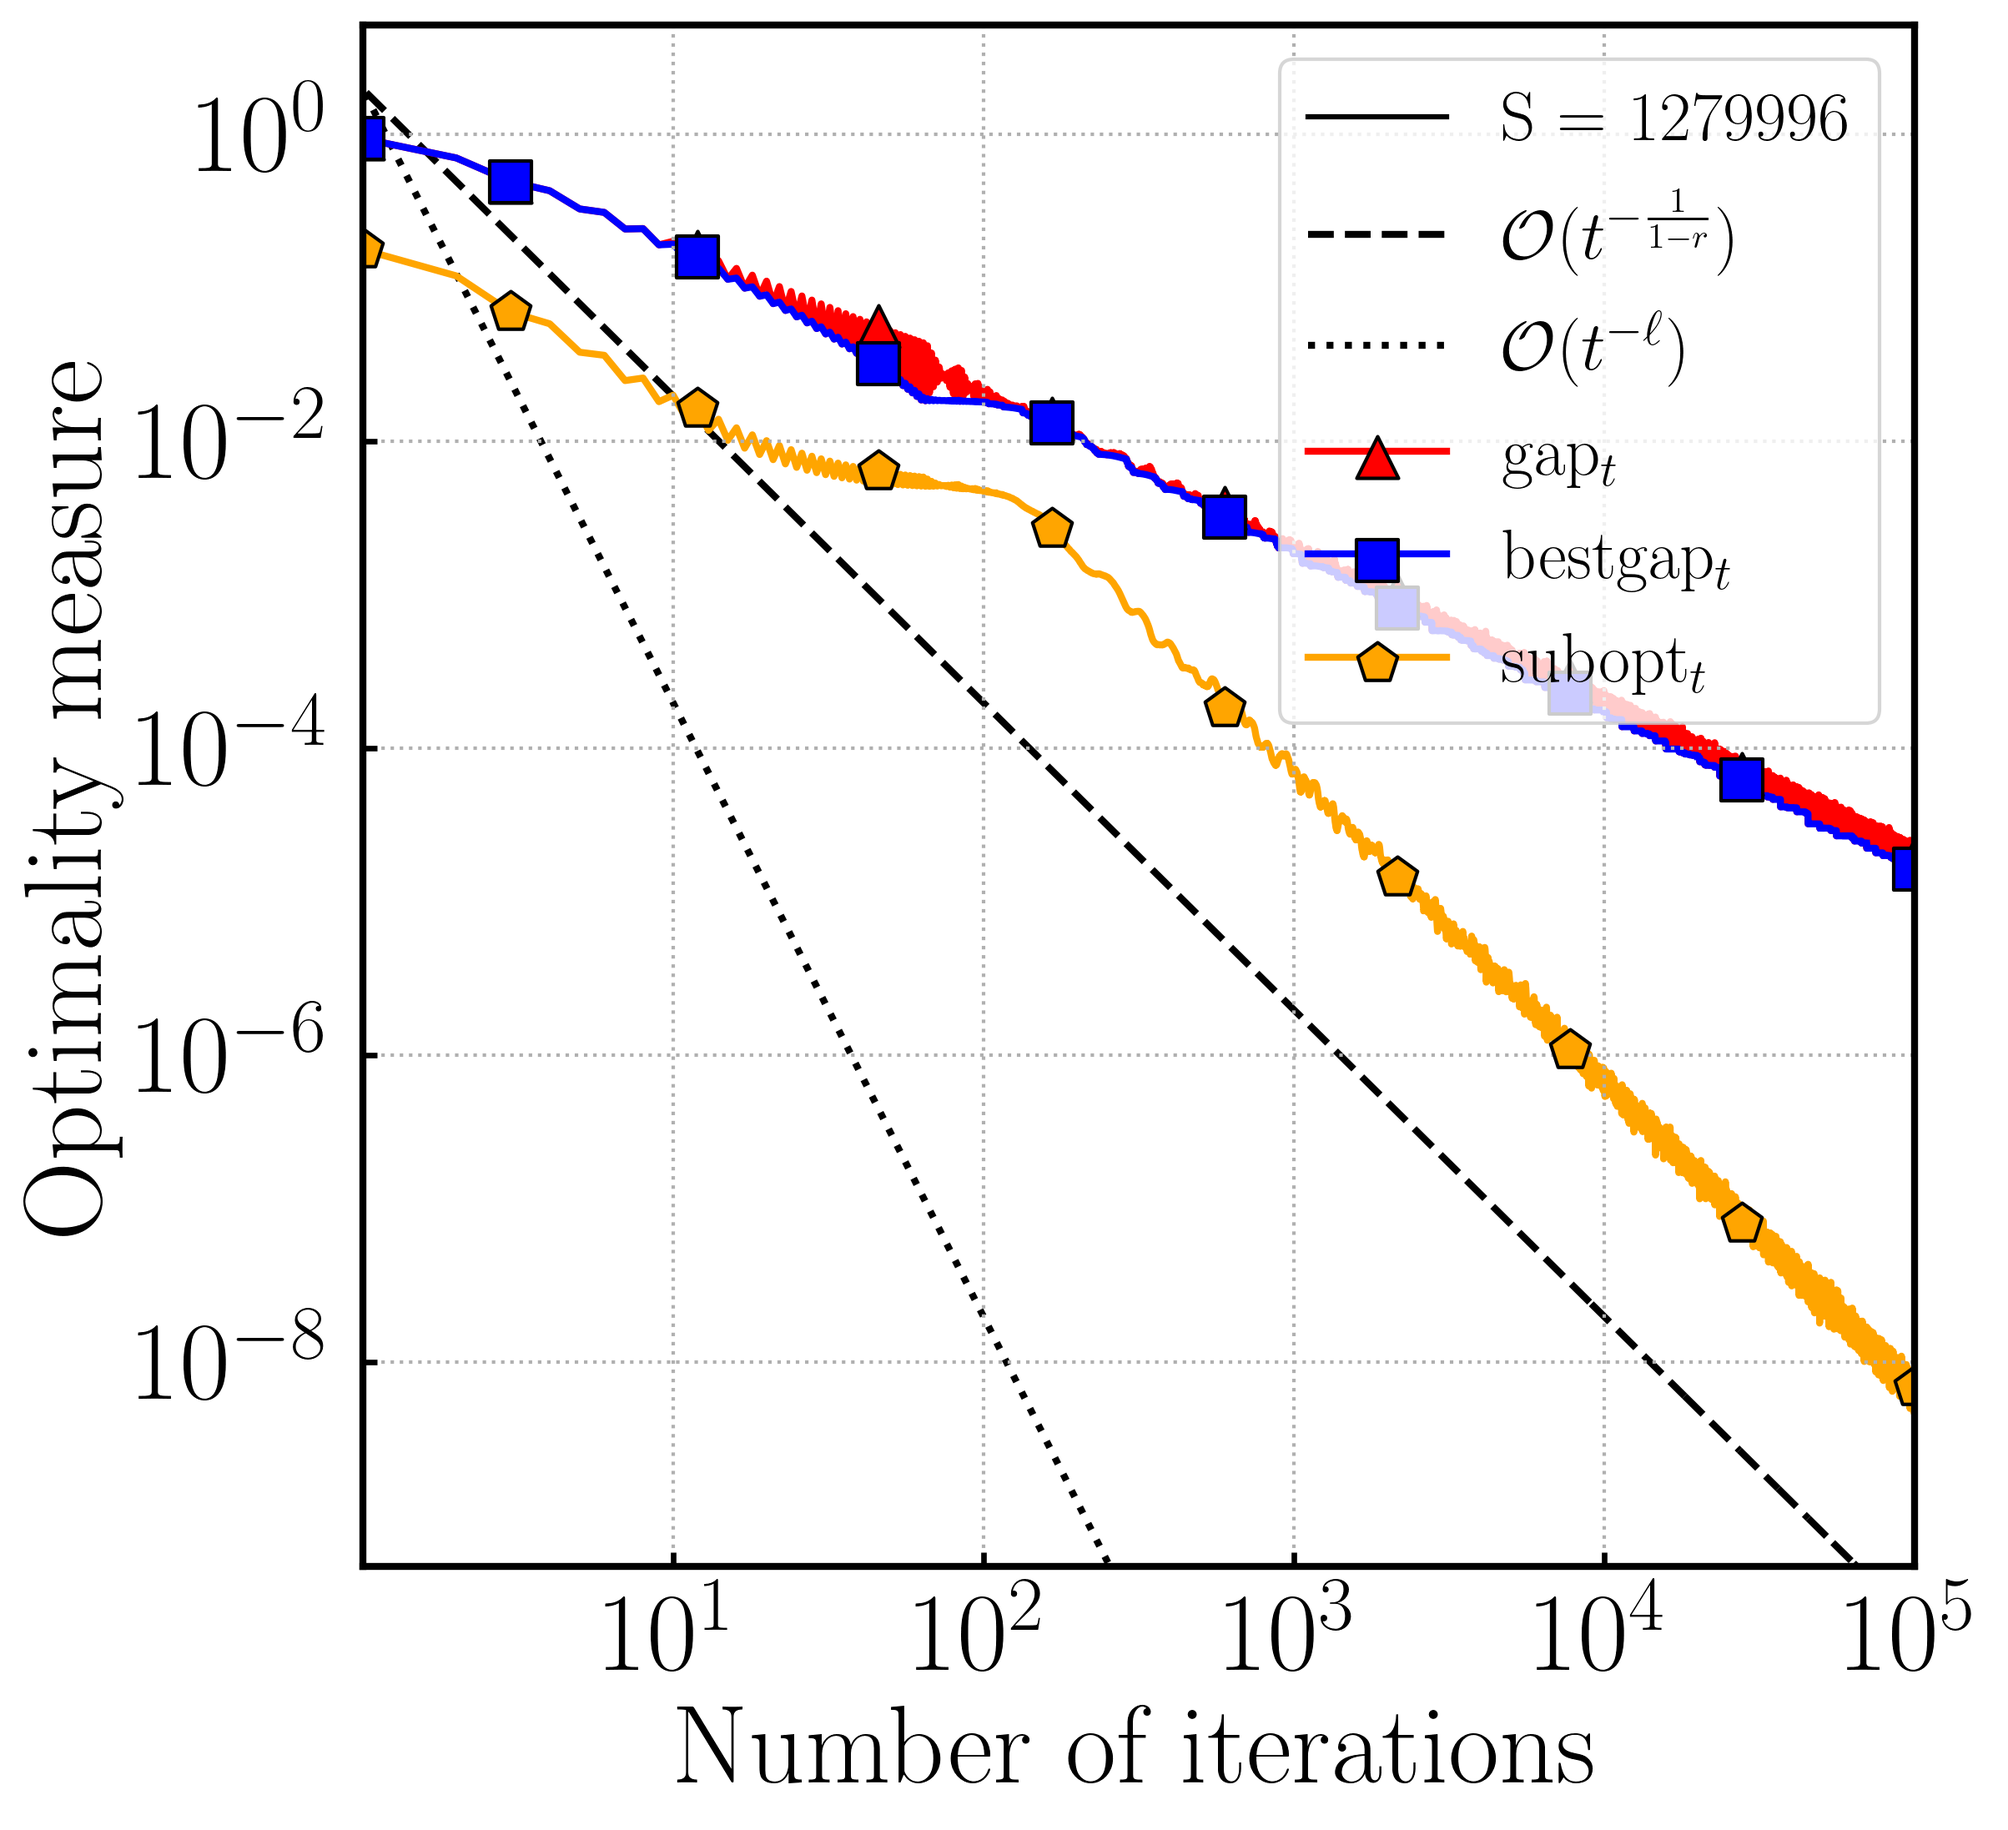
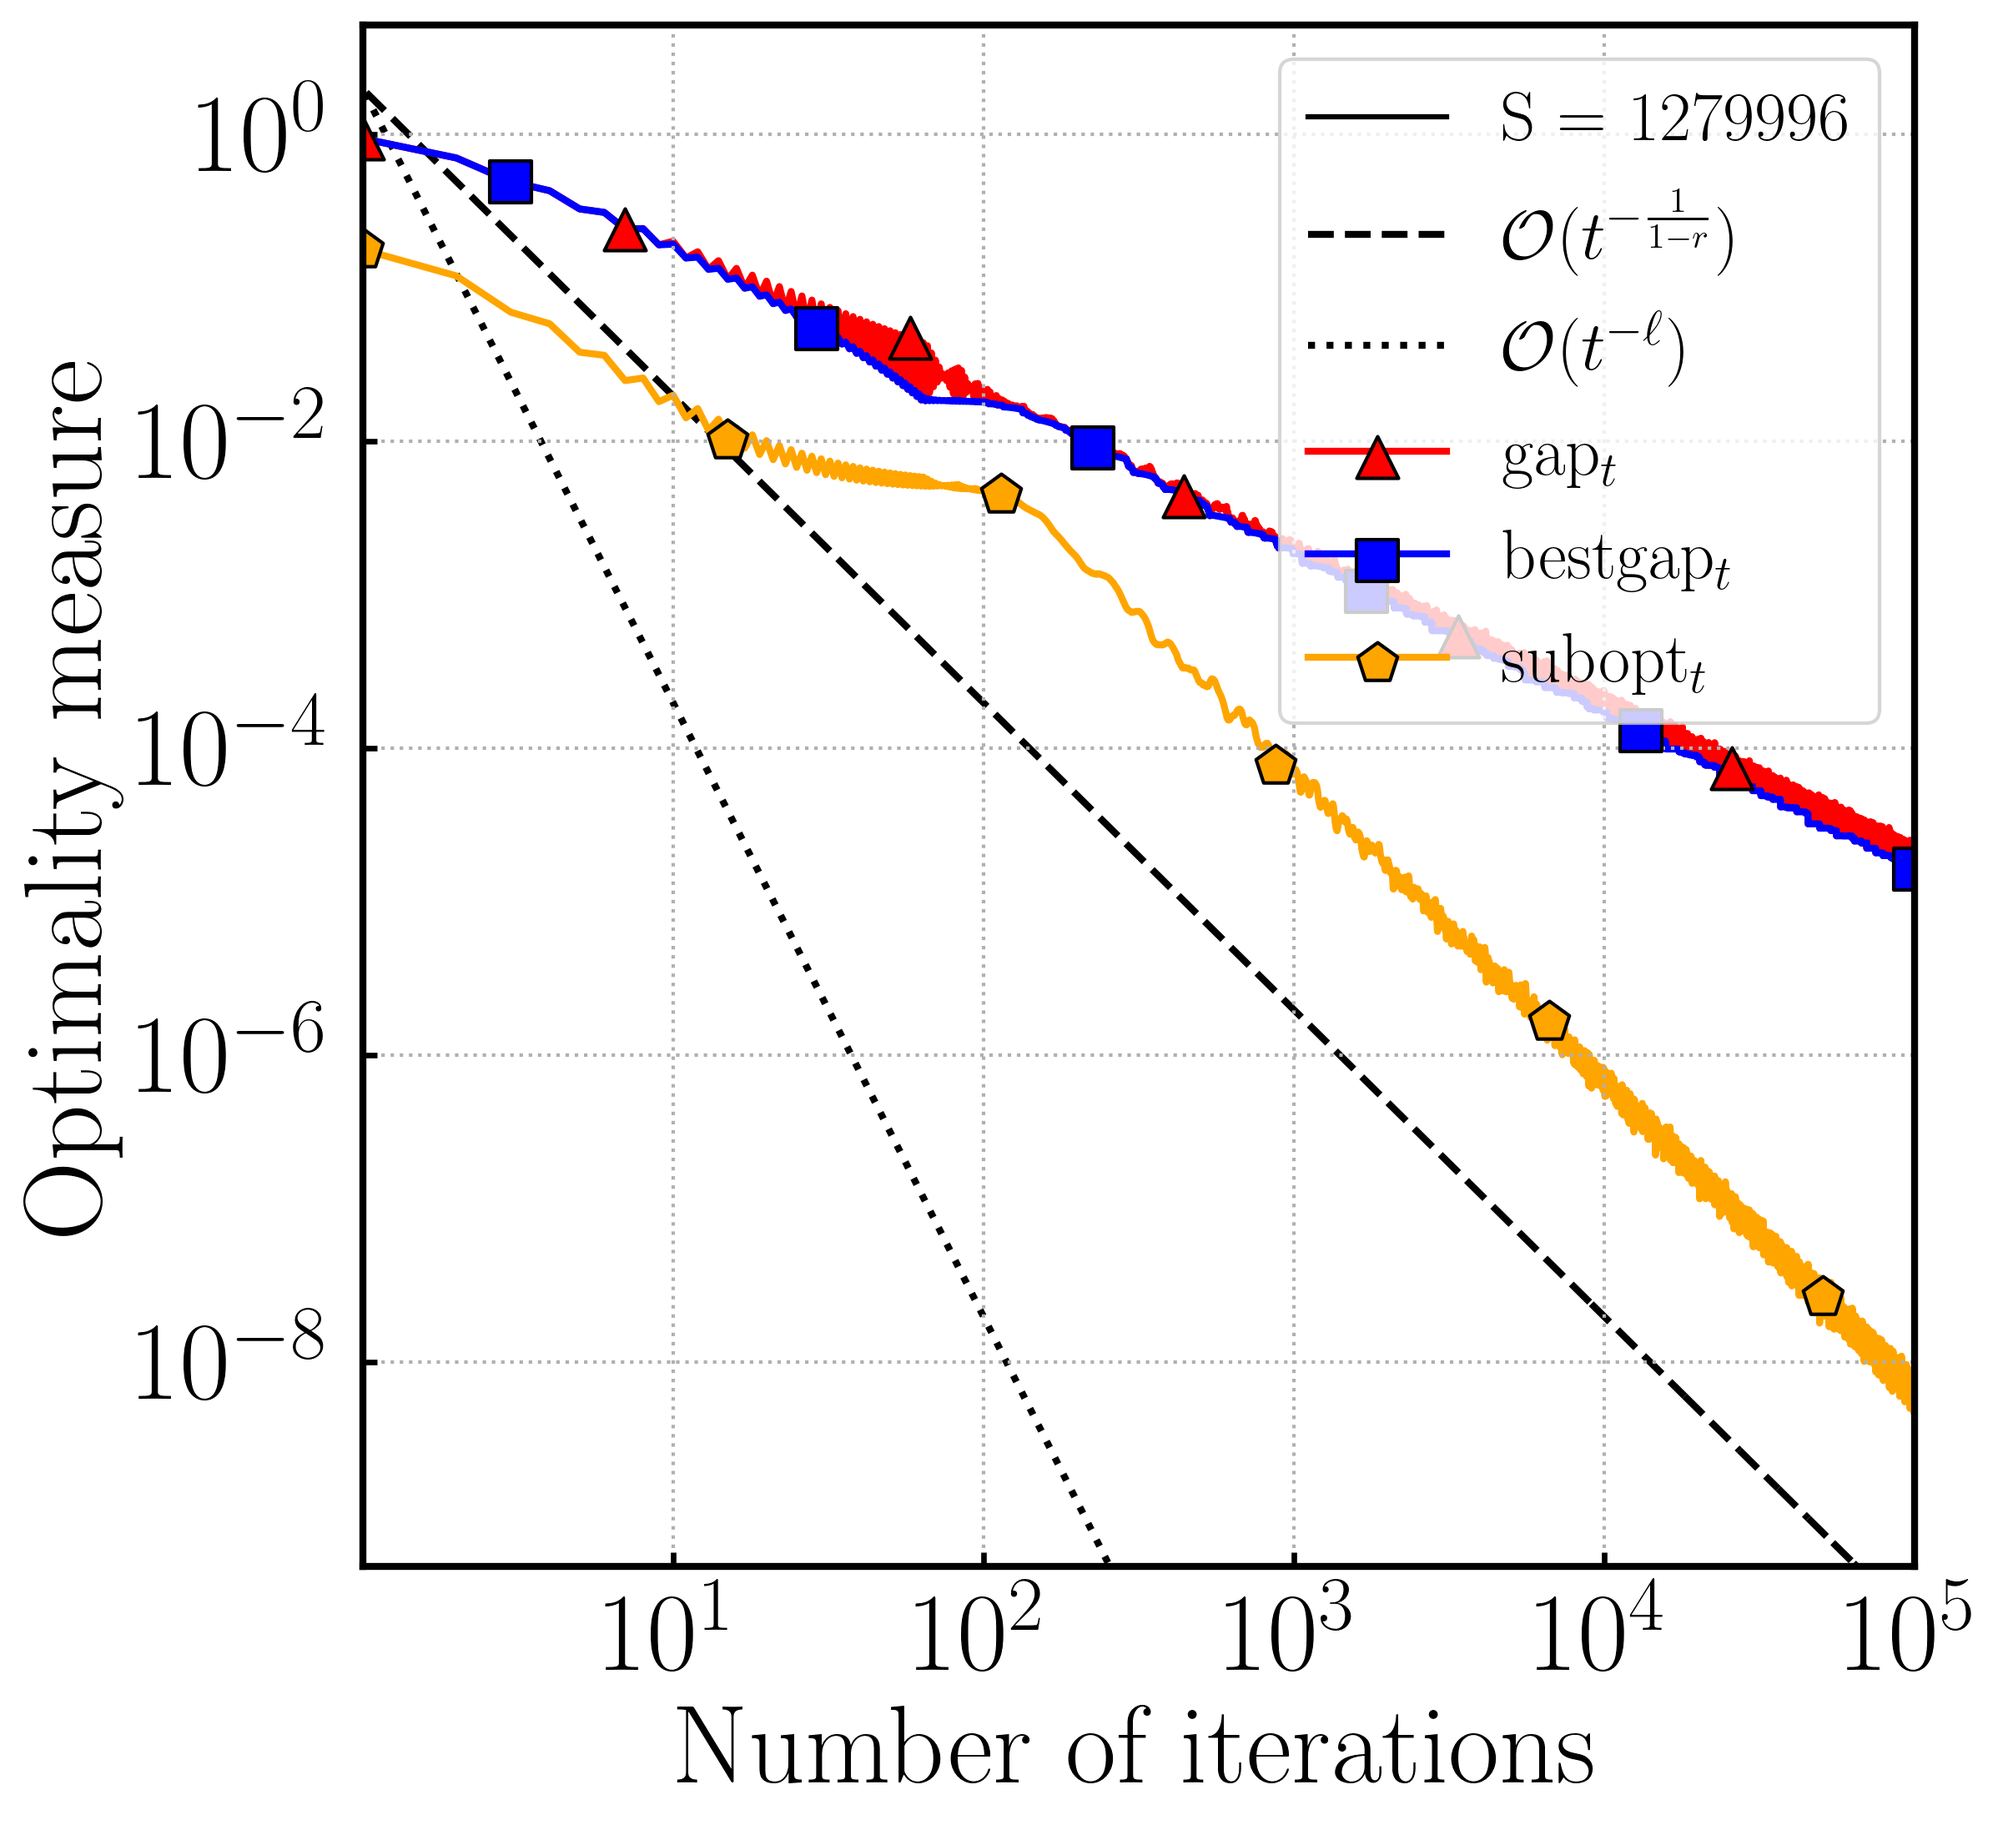
changes based on Sebastian's comments

diff --git a/src/plotting.py b/src/plotting.py
@@ -3,9 +3,8 @@ import autograd.numpy as np
 from pathlib import Path
 import matplotlib.lines as mlines
 
-from matplotlib.lines import Line2D
-
 from global_ import *
+from src.auxiliary_functions import create_sublist
 
 
 def determine_y_lims(data, minimum=1e-10):
@@ -120,12 +119,17 @@ def gap_plotter(y_data: list,
     plt.rcParams['text.usetex'] = True
 
     legend_handles = []  # Create a list to store the legend handles
+    n_sublists = len(set(markers[:len(labels)])) - 1
+    marker_indices_all = list(np.logspace(0, np.log10(len(y_data[-1]) - 1), num=((n_sublists)*n_markers), base=10,
+                                          dtype=int))
 
     for i in range(0, len(y_data)):
         # Plot the line with marker
         line = plt.plot(y_data[i], linestyle=styles[i], color=colors[i], label=labels[i], linewidth=linewidth, zorder=1)
 
-        marker_indices = list(np.logspace(0, np.log10(len(y_data[i]) - 1), num=n_markers, base=10, dtype=int))
+        # marker_indices = list(np.logspace(0, np.log10(len(y_data[i]) - 1), num=n_markers, base=10, dtype=int))
+        marker_indices = create_sublist(marker_indices_all, n_sublists, i+1)
+        # marker_indices = [idx for idx in marker_indices if idx <= len(y_data[0]) - 1]
         marker_values = [y_data[i][idx] for idx in marker_indices]
         scatter = plt.scatter(marker_indices, marker_values, marker=markers[i], color=colors[i], s=marker_size ** 2,
                               label=labels[i], edgecolor="black", linewidth=1, zorder=2)

diff --git a/experiments/regression.py b/experiments/regression.py
@@ -64,8 +64,8 @@ for p in ps:
         all_best_gaps.append(best_gaps[0][1:ITERATIONS])
 
     gap_0 = max([max(i) for i in all_dual_gaps])
-    all_primal_gaps, labels, styles, colors, markers = create_reference_lines_automatically(all_primal_gaps,
-                                                                                            labels, 1, l, gap_0)
+    all_primal_gaps, labels, styles, colors, markers = create_reference_lines_automatically(
+        all_primal_gaps, labels, 1, l, gap_0, colors=COLORS_ALTERNATIVE)
     all_dual_gaps, _, _, _, _ = create_reference_lines_automatically(all_dual_gaps, labels, 1, l, gap_0)
     all_best_gaps, _, _, _, _ = create_reference_lines_automatically(all_best_gaps, labels, 1, l, gap_0)
     file_name = ("regression" + "_p=" + str(round(p, 2)) + "_l=" + str(l))
@@ -104,12 +104,12 @@ for p in ps:
                 markers=markers
                 )
 
-    y_label = "bestgap"
-    y_label = "bestgap" + r"$_t$"
+    y_label = "primaldual"
+    y_label = "primaldual" + r"$_t$"
     gap_plotter(y_data=all_best_gaps,
                 labels=labels,
                 iterations=ITERATIONS,
-                file_name=("bestgap_" + file_name),
+                file_name=("primaldual_" + file_name),
                 x_lim=(1, ITERATIONS),
                 y_lim=determine_y_lims(primal_gaps),
                 y_label=y_label,

diff --git a/experiments/strong_growth.py b/experiments/strong_growth.py
@@ -21,14 +21,14 @@ for lmbda in lmbdas:
         q = 1 / (1 - 1 / p)
         assert p >= 1, "Only consider lp-balls with p>= 1."
         if p < 2:
-            alpha = (p - 1) / 2
+            alpha = (p - 1) / 4
             r = 1.
             y = np.random.random((DIMENSION, 1))
             y = (lmbda + 1) * y / lpnorm(y, q)
             L = 1.
             M = L * (alpha * lmbda) ** (-1)
         elif p >= 2:
-            alpha = 1 / p
+            alpha = 1 / (p*2**(p-1))
             r = 2 / p
             y = np.random.random((DIMENSION, 1))
             y = (lmbda + DIMENSION ** (1 / q - 1 / p)) * y / lpnorm(y, q)
@@ -48,7 +48,7 @@ for lmbda in lmbdas:
                                                               run_more=RUN_MORE, fw_step_size_rules=fw_step_size_rules)
 
         gaps = [dual_gaps[0][1:ITERATIONS], best_gaps[0][1:ITERATIONS], primal_gaps[0][1:ITERATIONS]]
-        labels = ["gap" + r'$_t$', "bestgap" + r'$_t$', "subopt" + r'$_t$']
+        labels = ["gap" + r'$_t$', "primaldual" + r'$_t$', "subopt" + r'$_t$']
         gap_0 = dual_gaps[0][0]
         gaps, labels, styles, colors, markers = create_reference_lines_automatically(gaps, labels, r, l, gap_0)
         file_name = ("strong_growth" + "_r=" + str(round(r, 2)) + "_M=" + str(round(M, 2)) + "_p=" + str(round(p, 2)) +

diff --git a/experiments/weak_boundary_growth.py b/experiments/weak_boundary_growth.py
@@ -20,7 +20,7 @@ for y_norm in [1.0]:
         q = 1 / (1 - 1 / p)
         assert p >= 1, "Only consider lp-balls with p>= 1."
         if p < 2:
-            alpha = (p - 1) / 2
+            alpha = (p - 1) / 4
             r = 1.
             y = np.random.random((DIMENSION, 1))
             y = y / lpnorm(y, p)
@@ -29,7 +29,7 @@ for y_norm in [1.0]:
             theta = 1 / 2
             M = L * (mu / alpha)
         elif p >= 2:
-            alpha = 1 / p
+            alpha = 1 / (p*2**(p-1))
             r = 2 / p
             y = np.random.random((DIMENSION, 1))
             y = DIMENSION ** (1 / q - 1 / p) * y / lpnorm(y, p)
@@ -52,7 +52,7 @@ for y_norm in [1.0]:
                                                               fw_step_size_rules=fw_step_size_rules)
 
         gaps = [dual_gaps[0][1:ITERATIONS], best_gaps[0][1:ITERATIONS], primal_gaps[0][1:ITERATIONS]]
-        labels = ["gap" + r'$_t$', "bestgap" + r'$_t$', "subopt" + r'$_t$']
+        labels = ["gap" + r'$_t$', "primaldual" + r'$_t$', "subopt" + r'$_t$']
         gap_0 = dual_gaps[0][0]
         gaps, labels, styles, colors, markers = create_reference_lines_automatically(gaps, labels, r, l, gap_0)
         file_name = (("weak_boundary_growth" + "_r=" + str(round(r, 2)) + "_M=" + str(round(M, 2)) + "_p=" + str(

diff --git a/src/auxiliary_functions.py b/src/auxiliary_functions.py
@@ -22,3 +22,36 @@ def fd(matrix, option="column"):
 
 def get_non_zero_indices(x: np.ndarray):
     return np.where(x.flatten())[0].tolist()
+
+
+def create_sublist(input_list, k, i):
+    """
+    Creates a sublist from a given list based on a specific condition.
+
+    Args:
+        input_list (list): The input list to be split into a sublist.
+        k (int): The total number of sublists that could be created.
+        i (int): The index of the sublist to be created (0 <= i < k).
+
+    Returns:
+        list: A sublist containing elements that satisfy the condition 'i + r' is divisible by 'k',
+              where 'i' is the element index and 'r' is a non-negative integer.
+
+    Example:
+        >>> original_list = [1, 2, 3, 4, 5, 6, 7, 8, 9, 10]
+        >>> k = 3
+        >>> i = 1
+        >>> sublist = create_sublist(original_list, k, i)
+        >>> print(sublist)
+        [2, 5, 8]
+
+        In this example, the input list is split into 3 possible sublists, and the function returns
+        the sublist where 'i + r' is divisible by 'k' (in this case, 'i' is 1).
+    """
+    sublist = []
+
+    for j, item in enumerate(input_list):
+        if (j + i) % k == 0:
+            sublist.append(item)
+
+    return sublist

diff --git a/experiments/polytope.py b/experiments/polytope.py
@@ -1,6 +1,6 @@
 import random
 import autograd.numpy as np
-from src.feasible_region import lpnorm, ProbabilitySimplex, LpBall
+from src.feasible_region import lpnorm, LpBall
 from src.objective_function import SquaredLoss
 from src.plotting import gap_plotter, determine_y_lims
 from src.experiments_auxiliary_functions import run_experiment, create_reference_lines_automatically
@@ -55,7 +55,7 @@ for kappa in kappas:
                                                               fw_step_size_rules=fw_step_size_rules)
 
         gaps = [dual_gaps[0][1:ITERATIONS], best_gaps[0][1:ITERATIONS], primal_gaps[0][1:ITERATIONS]]
-        labels = ["gap" + r'$_t$', "bestgap" + r'$_t$', "subopt" + r'$_t$']
+        labels = ["gap" + r'$_t$', "primaldual" + r'$_t$', "subopt" + r'$_t$']
         gap_0 = dual_gaps[0][0]
         gaps, labels, styles, colors, markers = create_reference_lines_automatically(gaps, labels, 1, l, gap_0)
         file_name = ("polytope_growth" + "_l1_ball" + "_rho=" + str(rho) + "_kappa=" + str(kappa) + "_l=" + str(l))

diff --git a/global_.py b/global_.py
@@ -1,10 +1,13 @@
 
 # Plots
 STYLES = ['-', '-', '-', '-', '-', '-', '-', '-', '-', '-', '-', '-', '-', '-', '-', '-', '-', '-']
-COLORS = ['red', 'blue', 'orange',  'green', 'purple', 'magenta', 'cyan', 'olive']
+COLORS = ['red', 'blue', 'orange',  'green', 'cyan', 'magenta', 'purple', 'olive', 'tomato']
+
+COLORS_ALTERNATIVE = COLORS[3:]
+COLORS_ALTERNATIVE_2 = COLORS[6:]
 MARKERS = ['^', 's', 'p', 'X', 'o', 'v', 'D', 'P']
 MARKER_SIZE = 12
-N_MARKERS = 10
+N_MARKERS = 6
 LINEWIDTH = 2
 FONT_SIZE = 32
 FONT_SIZE_LEGEND = 20
@@ -16,7 +19,7 @@ ITERATIONS = 100000
 RUN_MORE = 5 * ITERATIONS
 ITERATIONS_LOGISTIC_REGRESSION = 10000
 RUN_MORE_LOGISTIC_REGRESSION = 5 * ITERATIONS_LOGISTIC_REGRESSION
-ITERATIONS_COLLABORATIVE_FILTERING = 1000
+ITERATIONS_COLLABORATIVE_FILTERING = 10000
 RUN_MORE_COLLABORATIVE_FILTERING = 5 * ITERATIONS_COLLABORATIVE_FILTERING
 
 # Storing of data

diff --git a/experiments/gaps_growth.py b/experiments/gaps_growth.py
@@ -40,7 +40,7 @@ for rho in rhos:
                                                               fw_step_size_rules=fw_step_size_rules)
 
         gaps = [dual_gaps[0][1:ITERATIONS], best_gaps[0][1:ITERATIONS], primal_gaps[0][1:ITERATIONS]]
-        labels = ["gap" + r'$_t$', "bestgap" + r'$_t$', "subopt" + r'$_t$']
+        labels = ["gap" + r'$_t$', "primaldual" + r'$_t$', "subopt" + r'$_t$']
         gap_0 = dual_gaps[0][0]
         gaps, labels, styles, colors, markers = create_reference_lines_automatically(gaps, labels, r, l, gap_0)
         file_name = (("gaps_growth" + "_r=" + str(round(r, 2)) + "_m=" + str(round(m, 2)) + "_p="

diff --git a/experiments/collaborative_filtering.py b/experiments/collaborative_filtering.py
@@ -40,7 +40,7 @@ for radius in radii:
 
     gaps = [dual_gaps[0][1:ITERATIONS_COLLABORATIVE_FILTERING], best_gaps[0][1:ITERATIONS_COLLABORATIVE_FILTERING],
             primal_gaps[0][1:ITERATIONS_COLLABORATIVE_FILTERING]]
-    labels = ["gap" + r'$_t$', "bestgap" + r'$_t$', "subopt" + r'$_t$']
+    labels = ["gap" + r'$_t$', "primaldual" + r'$_t$', "subopt" + r'$_t$']
     gap_0 = dual_gaps[0][0]
     gaps, labels, styles, colors, markers = create_reference_lines_automatically(gaps, labels, 1, l, gap_0)
     file_name = ("collaborative_filtering" +  "_radius=" + str(radius) + "_l=" + str(l))

diff --git a/experiments/logistic_regression.py b/experiments/logistic_regression.py
@@ -45,7 +45,7 @@ for p in ps:
 
     gaps = [dual_gaps[0][1:ITERATIONS_LOGISTIC_REGRESSION], best_gaps[0][1:ITERATIONS_LOGISTIC_REGRESSION],
             primal_gaps[0][1:ITERATIONS_LOGISTIC_REGRESSION]]
-    labels = ["gap" + r'$_t$', "bestgap" + r'$_t$', "subopt" + r'$_t$']
+    labels = ["gap" + r'$_t$', "primaldual" + r'$_t$', "subopt" + r'$_t$']
     gap_0 = dual_gaps[0][0]
     gaps, labels, styles, colors, markers = create_reference_lines_automatically(gaps, labels, 1, l, gap_0)
     file_name = (("logistic_regression" + "_p=" + str(round(p, 2))) + "_l=" + str(l))

diff --git a/src/feasible_region.py b/src/feasible_region.py
@@ -2,7 +2,6 @@ import autograd.numpy as np
 from scipy.sparse.linalg import svds
 
 from src.auxiliary_functions import fd
-from src.objective_function import SquaredLoss
 
 
 def lpnorm(vector, p):

diff --git a/README.md b/README.md
@@ -1,6 +1,7 @@
 # Affine-Invariant Convergence Rates of the Frank-Wolfe Algorithm with Open-Loop Step-Sizes
 
 ## References
+
 This project is an extension of the previously published Git repository
 [open_loop_fw](https://github.com/ZIB-IOL/open_loop_fw), which contains the code to the following paper:
 
